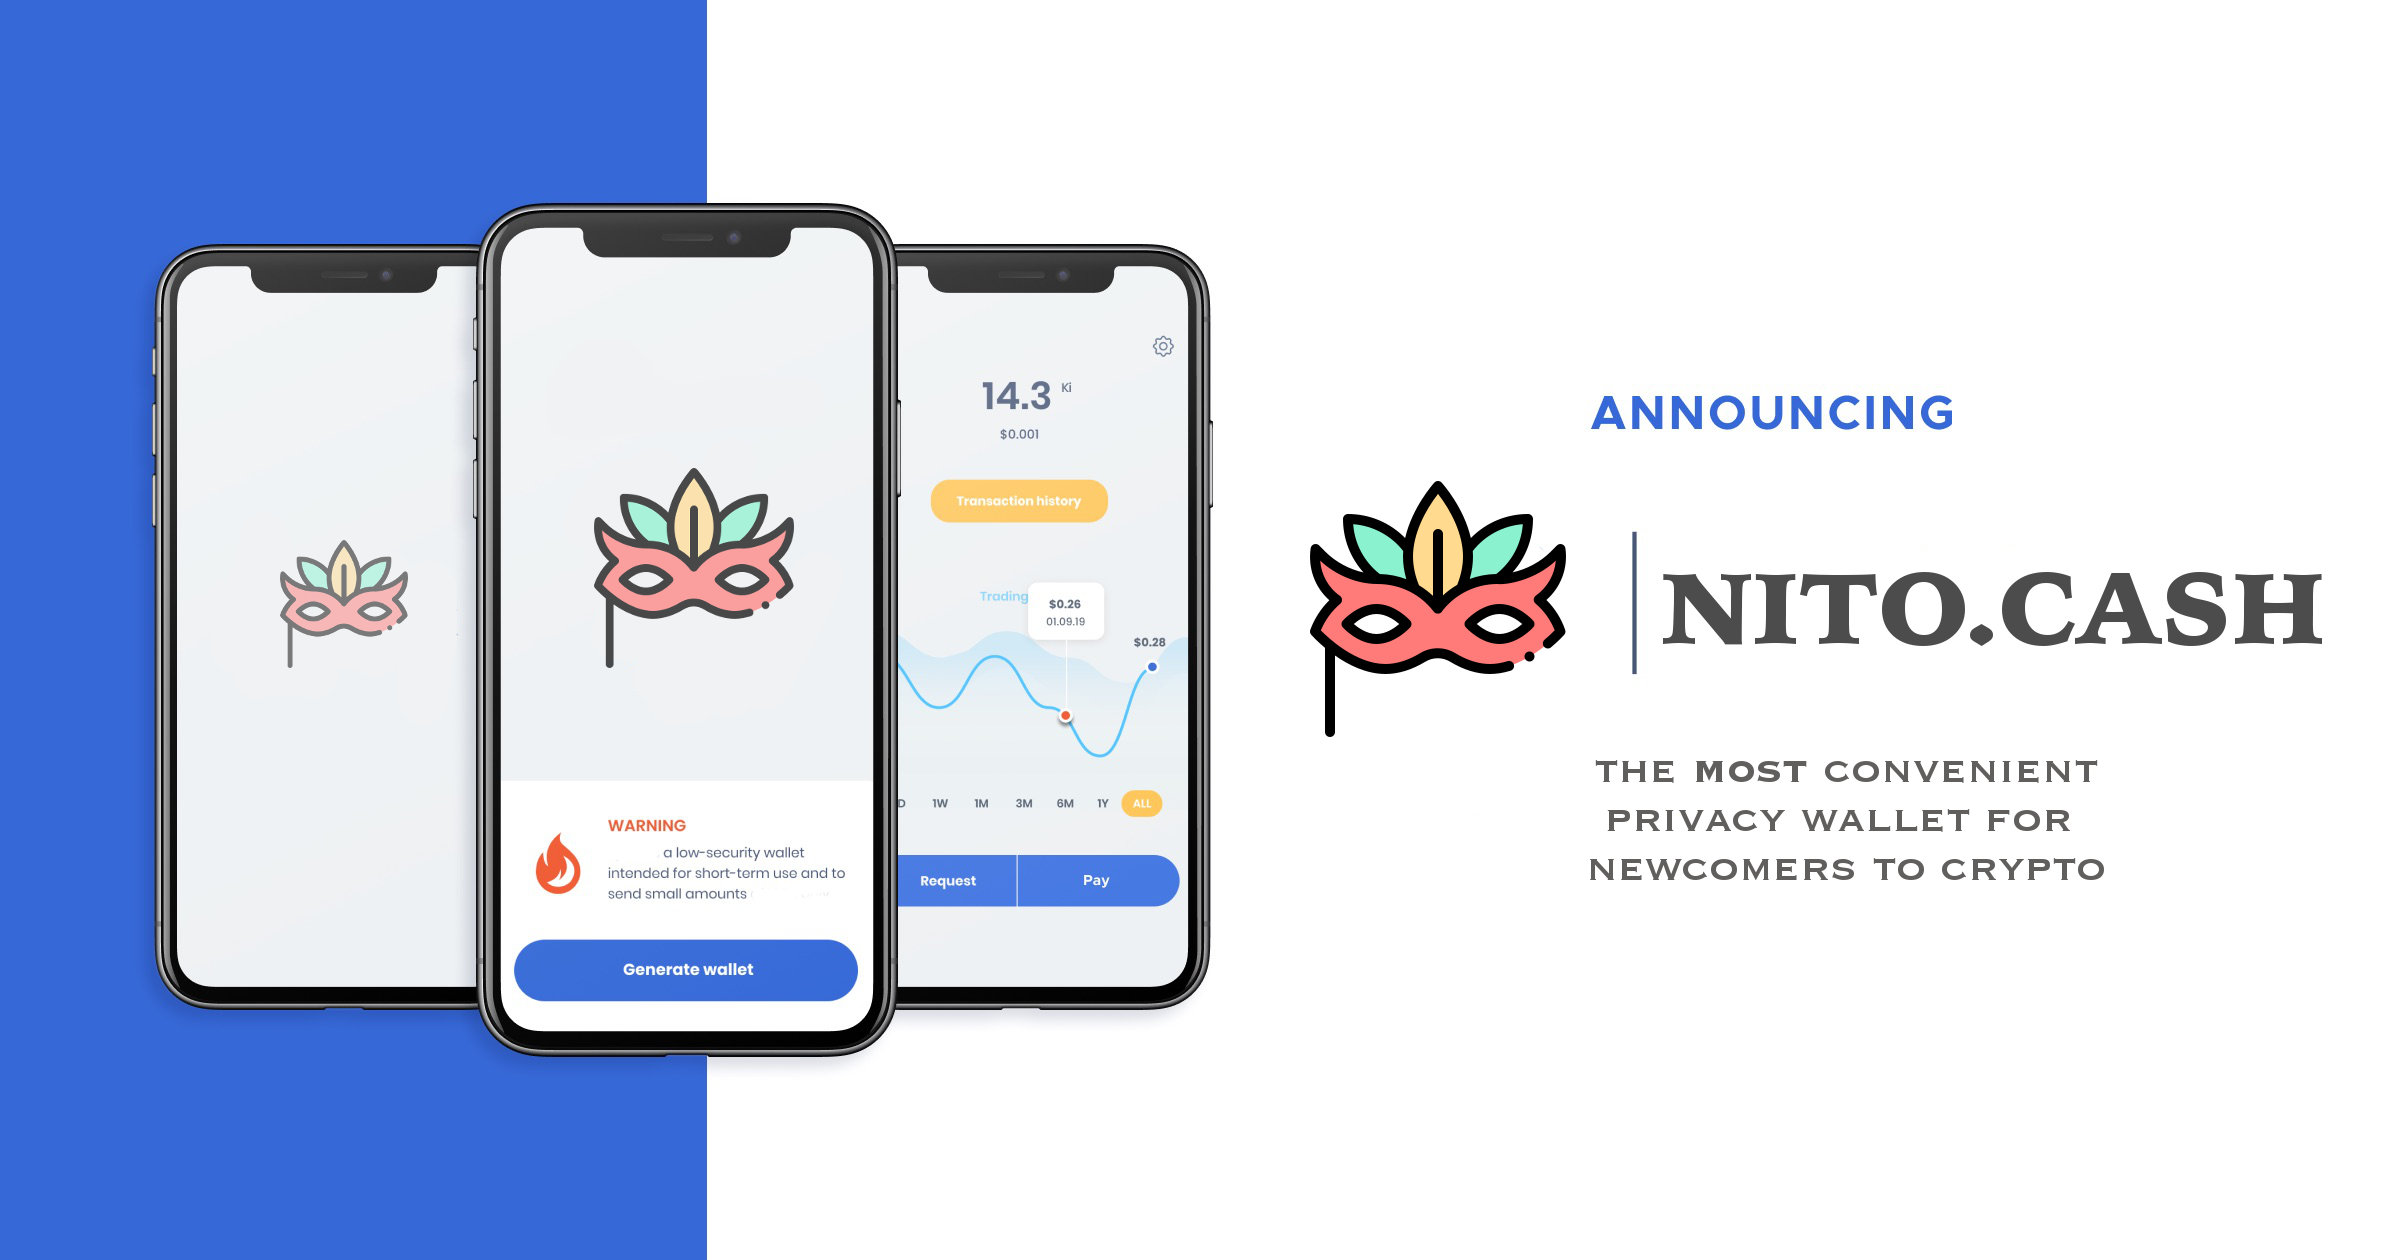
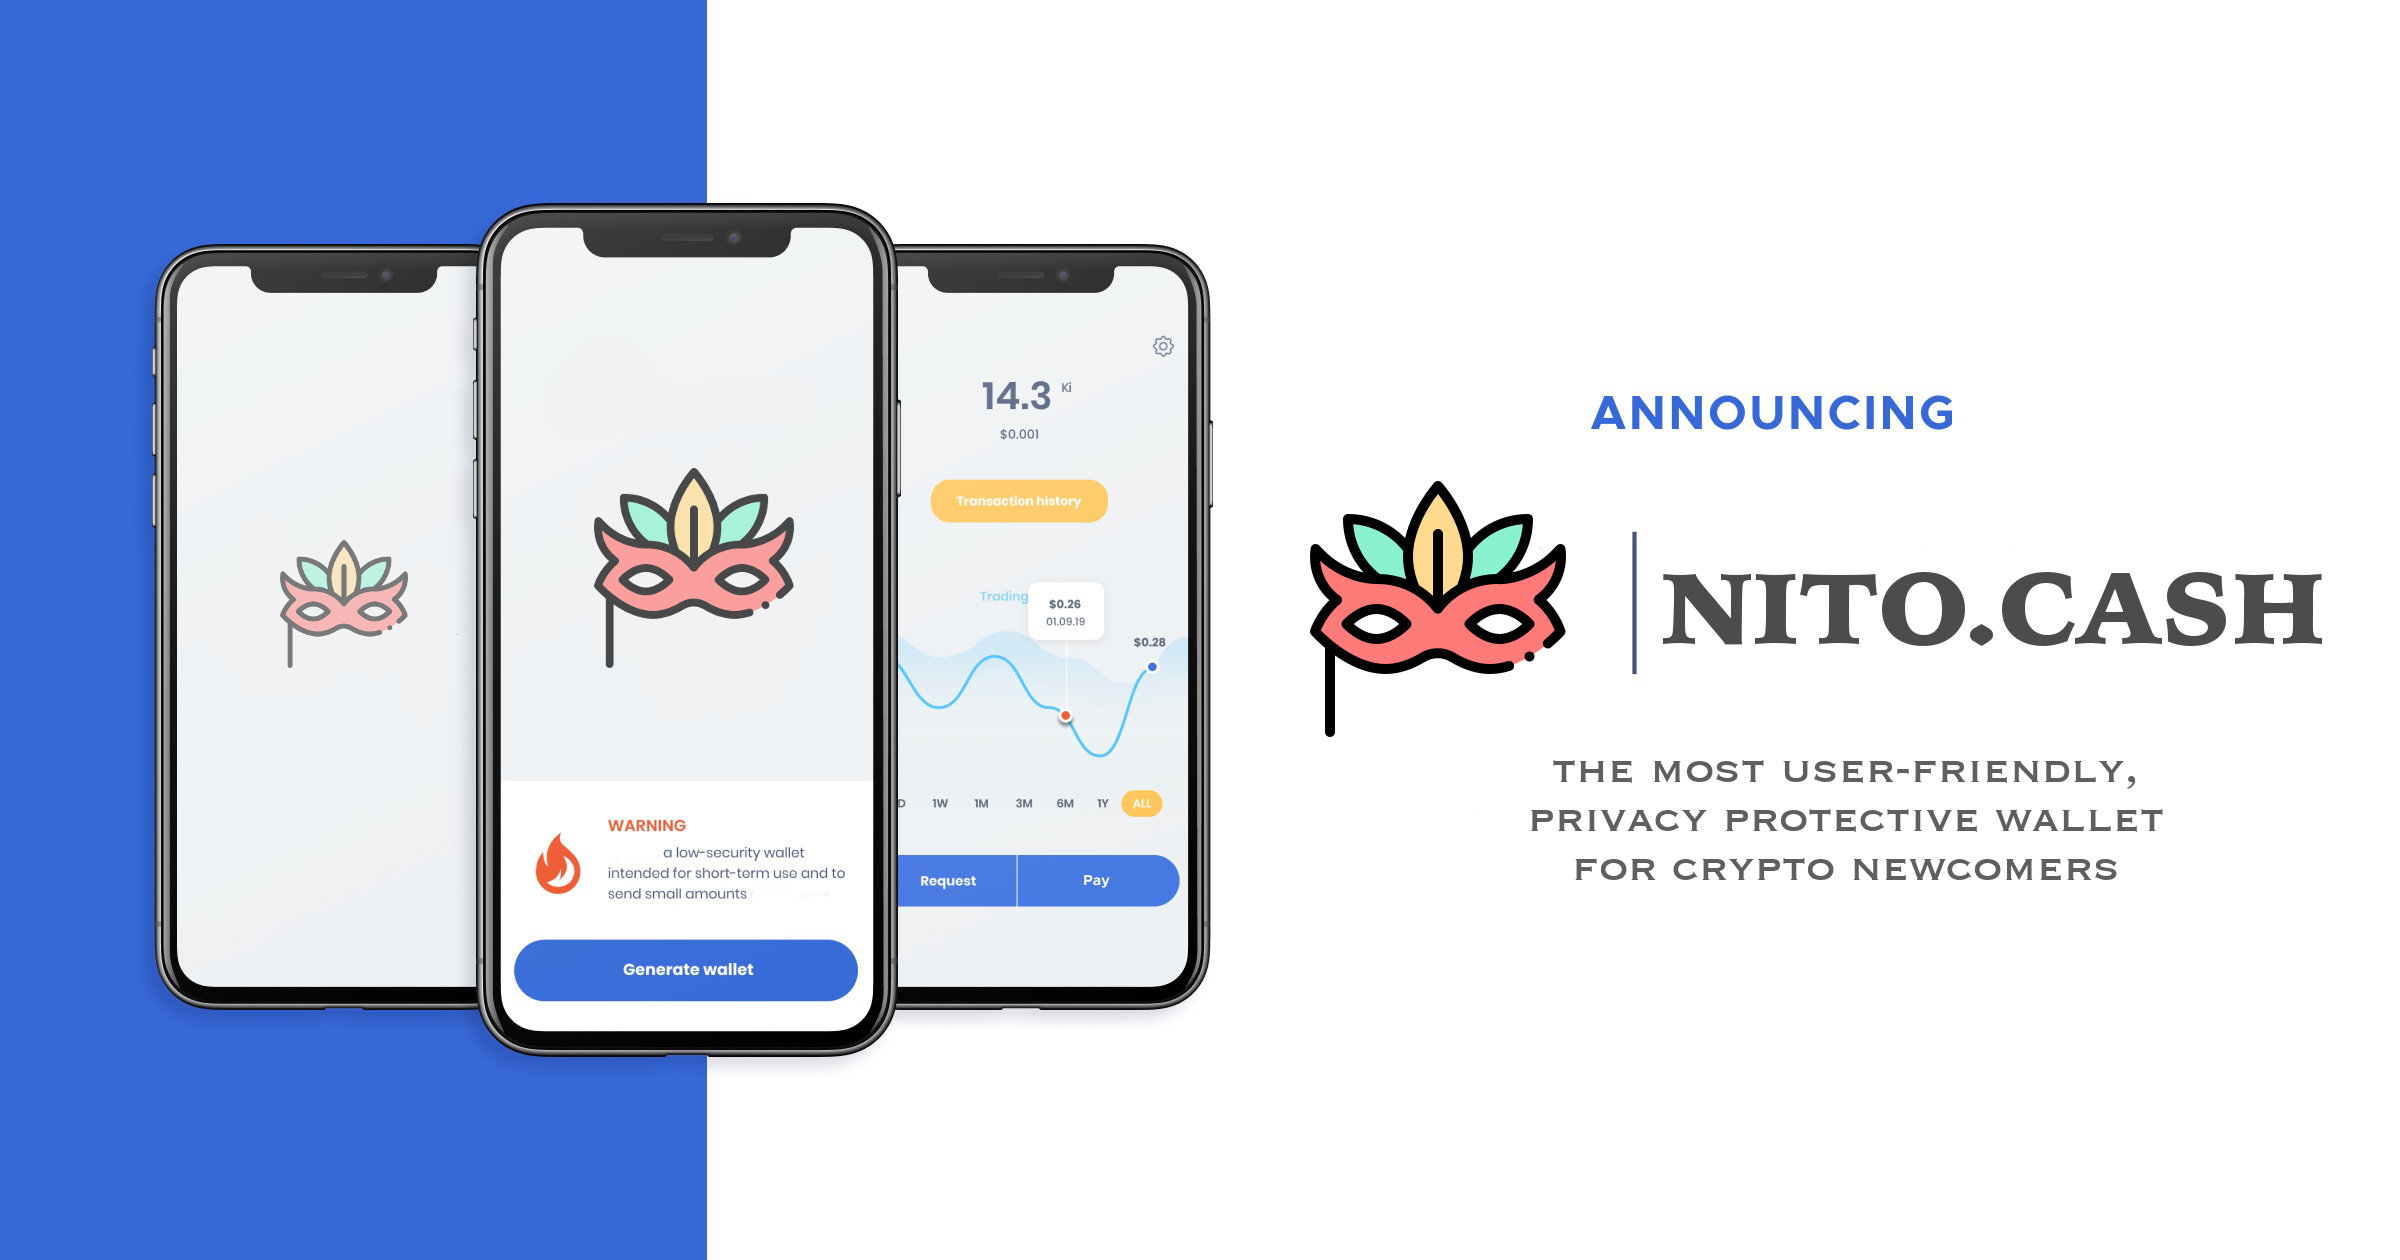
Updated poster and slogan.

Changed region(s): [[0.6562, 0.5881, 0.9062, 0.7119]]

diff --git a/README.md b/README.md
@@ -1,8 +1,8 @@
 # Nito.cash — Hush Your Money™
 
-![Nito.cash Poster](https://nito.cash/poster.jpg?1580211230)
+![Nito.cash Poster](https://nito.cash/poster.jpg?1581239745)
 
-> __[Nito.cash](https://nito.cash)__ is the __most convenient privacy wallet__ for newcomers to crypto.
+> __[Nito.cash](https://nito.cash)__ is the __most user-friendly, privacy protective wallet__ for crypto newcomers.
 
 ## Anatomy of Nito.cash wallet
 
